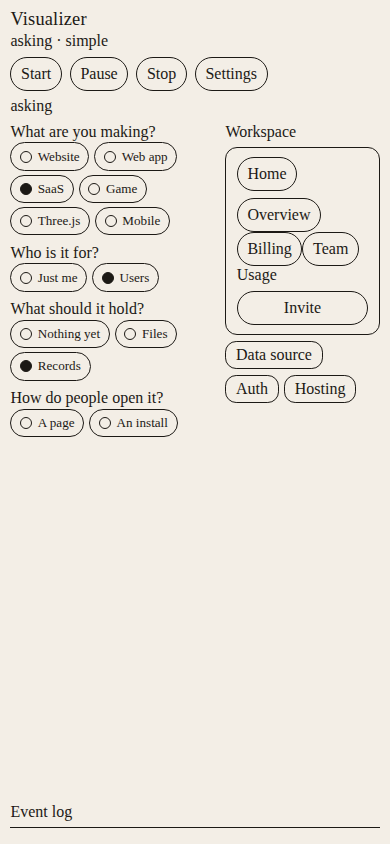
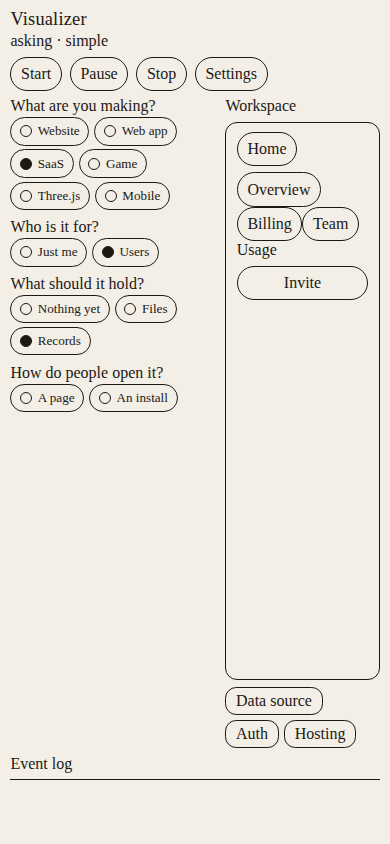
Fill the asking view and keep the log a short strip.
The preview grows with the height. The stage line is the one place the stage is written, and the score meter keeps a space before its value.

diff --git a/apps/web/src/styles.css b/apps/web/src/styles.css
@@ -51,19 +51,30 @@ h2 {
 }
 
 .view {
+  position: relative;
   display: flex;
   flex-direction: column;
   align-items: stretch;
-  gap: 0.45rem;
   min-height: 0;
+  height: 100%;
   overflow: hidden;
+}
+
+[data-stage-mark] {
+  height: 0;
+  margin: 0;
+  padding: 0;
+  overflow: hidden;
+  line-height: 0;
 }
 
 .ask {
   flex: 1;
   min-height: 0;
+  height: 100%;
   display: grid;
   grid-template-columns: minmax(0, 1.15fr) minmax(0, 0.85fr);
+  align-items: stretch;
   gap: 0.75rem;
   overflow: hidden;
 }
@@ -72,6 +83,7 @@ h2 {
 .preview {
   min-width: 0;
   min-height: 0;
+  height: 100%;
   overflow: hidden;
 }
 
@@ -107,10 +119,15 @@ h2 {
   display: flex;
   flex-direction: column;
   gap: 0.4rem;
+  flex: 1;
   min-height: 0;
   border: 1px solid #1c1915;
   border-radius: 0.75rem;
   padding: 0.55rem 0.65rem;
+}
+
+.wire [data-slot="meter-label"] {
+  margin-right: 0.35rem;
 }
 
 .wire[data-wire="mobile"] {
@@ -268,10 +285,9 @@ button:disabled {
 }
 
 .log {
-  min-height: 0;
-  max-height: 6.5rem;
+  height: 3.4rem;
   margin: 0;
-  padding: 0.45rem 0 0;
+  padding: 0.35rem 0 0;
   display: flex;
   flex-direction: column;
   justify-content: unsafe flex-end;
@@ -286,6 +302,6 @@ button:disabled {
 
 @media (max-width: 720px) {
   .log {
-    max-height: 4.25rem;
+    height: 3.1rem;
   }
 }

diff --git a/apps/web/src/critical-flow.dom.test.tsx b/apps/web/src/critical-flow.dom.test.tsx
@@ -68,6 +68,9 @@ describe("flow screen", () => {
     expect(document.querySelector("[data-view]")?.getAttribute("data-mode")).toBe("simple");
     expect(document.querySelector("[data-view]")?.getAttribute("data-panel")).toBeNull();
     expect(document.querySelector("[data-stage-mark]")?.getAttribute("data-stage-mark")).toBe("asking");
+    expect(document.querySelector("[data-stage-mark]")?.textContent).toBe("");
+    expect(document.querySelector("[data-stage]")?.textContent).toBe("asking · simple");
+    expect(document.querySelector("[data-view]")?.textContent).not.toContain("asking");
     expect(document.querySelector("[data-ask]")?.textContent).toContain("What are you making?");
     expect(document.querySelector("[data-preview]")?.getAttribute("data-preview")).toBe("empty");
     expect(document.querySelectorAll("[data-gap]")).toHaveLength(0);
@@ -162,5 +165,7 @@ describe("flow screen", () => {
     expect(gapIds()).toEqual(["dataSource", "auth", "hosting"]);
     expect(document.querySelectorAll("[data-log] li")).toHaveLength(0);
     expect(document.querySelector("[data-stage]")?.getAttribute("data-stage")).toBe("asking");
+    choose("Game");
+    expect(document.querySelector("[data-wire]")?.textContent).toMatch(/Score\s+40/);
   });
 });

diff --git a/apps/web/src/stage-mark.tsx b/apps/web/src/stage-mark.tsx
@@ -1,6 +1,6 @@
 import { definePrimitive } from "@ui-sdk/core";
 import { createParts } from "@ui-sdk/react/primitive";
-import { flowStages, stageLabel, type FlowStage } from "@visualizer/core";
+import { flowStages, type FlowStage } from "@visualizer/core";
 import { stageMarkName } from "./allow.js";
 
 type StageMarkOptions = { stage?: string };
@@ -24,8 +24,6 @@ const stageMark = definePrimitive({
     root: slot<{}, { stage: FlowStage }>({
       state: (state) => ({ stage: state.stage }),
       attrs: (state) => ({
-        role: "status",
-        "aria-label": stageLabel(state.stage),
         "data-stage-mark": state.stage,
       }),
     }),

diff --git a/apps/web/src/view.tsx b/apps/web/src/view.tsx
@@ -3,7 +3,6 @@ import { Collapsible, CollapsiblePanel, CollapsibleTrigger } from "@ui-sdk/react
 import {
   emptyDesign,
   openGaps,
-  stageLabel,
   viewFor,
   type Answers,
   type Design,
@@ -29,7 +28,7 @@ function ViewNodeView({
 }) {
   switch (node.kind) {
     case "stage-mark":
-      return <StageMark stage={stage}>{stageLabel(stage)}</StageMark>;
+      return <StageMark stage={stage} />;
     case "ask":
       return <AskView answers={answers} gaps={openGaps(answers, design)} onAnswer={onAnswer} />;
     case "button":

diff --git a/apps/web/src/ask-view.tsx b/apps/web/src/ask-view.tsx
@@ -59,7 +59,7 @@ function FrameNodeView({ node }: { node: FrameNode }) {
     case "meter":
       return (
         <Meter value={node.value}>
-          <MeterLabel>{node.label}</MeterLabel>
+          <MeterLabel>{node.label}</MeterLabel>{" "}
           <MeterValue />
           <MeterTrack>
             <MeterIndicator />

diff --git a/docs/ARCHITECTURE-LAYERS.md b/docs/ARCHITECTURE-LAYERS.md
@@ -26,6 +26,6 @@ flowchart LR
   advancedMode -->|Toggle| simpleMode
 ```
 
-The flow graph owns the stage and the mode. The view map picks one spec for that pair. The screen shows that spec, the stage line, and the event log. Asking puts questions beside a preview. Gap cards are the open decisions for those answers, and an ask mark exposes both to `snapshot`. Advanced mode adds one later panel. A stage mark exposes `stage` to `snapshot`. WebMCP registers `snapshot`, `act`, and `query`. Its allow callback accepts component actions only. Start moves the stage, Pause holds it, and Stop reaches done. Reset after done returns to asking, live, and simple. The mode toggle sits in Settings, off the main screen, along the bottom on a narrow screen, and does not change the stage. Settings loads when it opens. A log line is written only when the machine takes the event. The stored log keeps the latest 200 lines. The next transition reads the stored stage, motion, and mode. The screen shows the latest 20.
+The flow graph owns the stage and the mode. The view map picks one spec for that pair. The screen shows that spec, the stage line, and the event log. Asking puts questions beside a preview and fills the height. The log is a short strip. Gap cards are the open decisions for those answers, and an ask mark exposes both to `snapshot`. Advanced mode adds one later panel. A stage mark exposes `stage` to `snapshot`. WebMCP registers `snapshot`, `act`, and `query`. Its allow callback accepts component actions only. Start moves the stage, Pause holds it, and Stop reaches done. Reset after done returns to asking, live, and simple. The mode toggle sits in Settings, off the main screen, along the bottom on a narrow screen, and does not change the stage. Settings loads when it opens. A log line is written only when the machine takes the event. The stored log keeps the latest 200 lines. The next transition reads the stored stage, motion, and mode. The screen shows the latest 20.
 
 [`adaptate`](https://github.com/p10ns11y/adaptate) checks the screen schema. The flow graph is the only state machine. Core keeps importing `xstate`, `@adaptate/core`, and `@adaptate/utils`. `scripts/fetch-ref.sh` still fetches the reading copies.

diff --git a/docs/CRITICAL-FLOWS.md b/docs/CRITICAL-FLOWS.md
@@ -16,7 +16,7 @@ Test: `CF-01` in `packages/core/src/critical-flows.test.ts`, and the render in `
 
 ## CF-02 Questions, preview, and gap cards
 
-The asking view puts questions on the left and a preview on the right. Each what answer has one wireframe. Gap cards are the decisions still open, and they change when an answer changes. An answer does not add a log line.
+The asking view fills the height. Questions sit on the left and the preview on the right, and the preview grows. The event log is a short strip. Each what answer has one wireframe. Gap cards are the decisions still open, and they change when an answer changes. An answer does not add a log line. The stage line is the one place the stage is written.
 
 Test: `CF-02` in `packages/core/src/critical-flows.test.ts` and `apps/web/src/critical-flow.dom.test.tsx`. Templates and rules are `packages/core/src/ask/templates.test.ts` and `packages/core/src/ask/gaps.test.ts`.
 

diff --git a/.cursor/skills/verify-visualizer/features/flow.md b/.cursor/skills/verify-visualizer/features/flow.md
@@ -1,6 +1,6 @@
 # Flow screen
 
-The page is one screen. Asking puts questions on the left and a preview on the right. It also shows the stage line and the event log. It does not scroll. The log starts empty. Settings holds the mode toggle and sits along the bottom on a narrow screen. Advanced mode adds one later panel.
+The page is one screen. Asking fills the height: questions on the left, a preview that grows on the right, and a short event log. It does not scroll. The log starts empty. The stage line is the one place the stage is written. Settings holds the mode toggle and sits along the bottom on a narrow screen. Advanced mode adds one later panel.
 
 ## Sub-features
 
